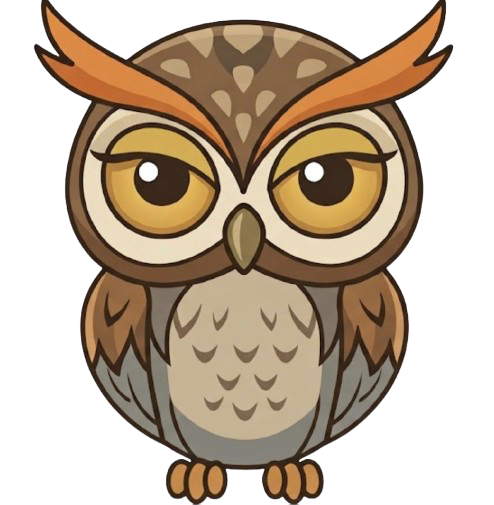
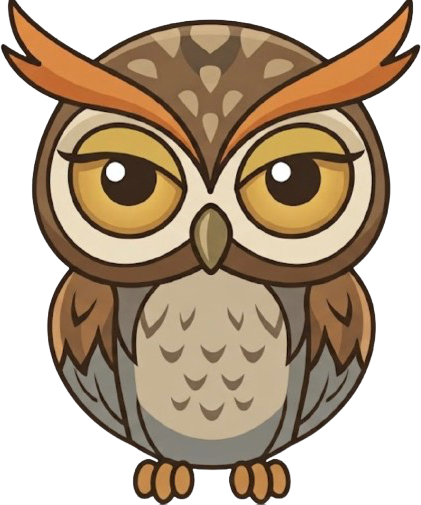
Make the brand owl bigger on bouquet cards and restore the game owl
Two fixes to the Owl Watcher owl:

1. The bouquet/GIF card header drew the brand crest at only 4.8% of
card width (about 42px on a 440px card), so it read as a small emblem
rather than the brand. Raised it to 6.4% so the owl mark is a clear,
prominent brand presence on every generated card and GIF.

2. The Owl Jump game still drew its character but at 28x28px on a
400x160 canvas, with 33px of transparent padding baked into owl1.png,
leaving only a tiny speck that effectively hid the owl. Cropped the
asset to its content and sized the owl to 44x44, resting on the ground
line, so the character is clearly visible while jumping again.

diff --git a/index.html b/index.html
@@ -507,9 +507,9 @@
 
     let owl = {
         x: 40,
-        y: 104,
-        width: 28,
-        height: 28,
+        y: 88,
+        width: 44,
+        height: 44,
         dy: 0,
         jumpForce: -8.5,
         gravity: 0.5,
@@ -521,7 +521,7 @@
     let obstacleInterval = 100; // frames between obstacles
 
     function resetGame() {
-        owl.y = 104;
+        owl.y = 88;
         owl.dy = 0;
         owl.grounded = true;
         obstacles = [];
@@ -605,8 +605,8 @@
         owl.y += owl.dy;
 
         // Ground collision
-        if (owl.y > 104) {
-            owl.y = 104;
+        if (owl.y > 88) {
+            owl.y = 88;
             owl.dy = 0;
             owl.grounded = true;
         }

diff --git a/bouquet-engine.js b/bouquet-engine.js
@@ -1031,7 +1031,9 @@
     }
 
     // ---- header block
-    const owlR = width * 0.048;
+    // The owl crest is the brand mark on the card, so it is drawn a clear
+    // size rather than a small emblem — it stays the first thing you see.
+    const owlR = width * 0.064;
     const headerTop = height * 0.030;
     const crestCy = headerTop + owlR;
     const titleSize = Math.round(width * 0.096);
